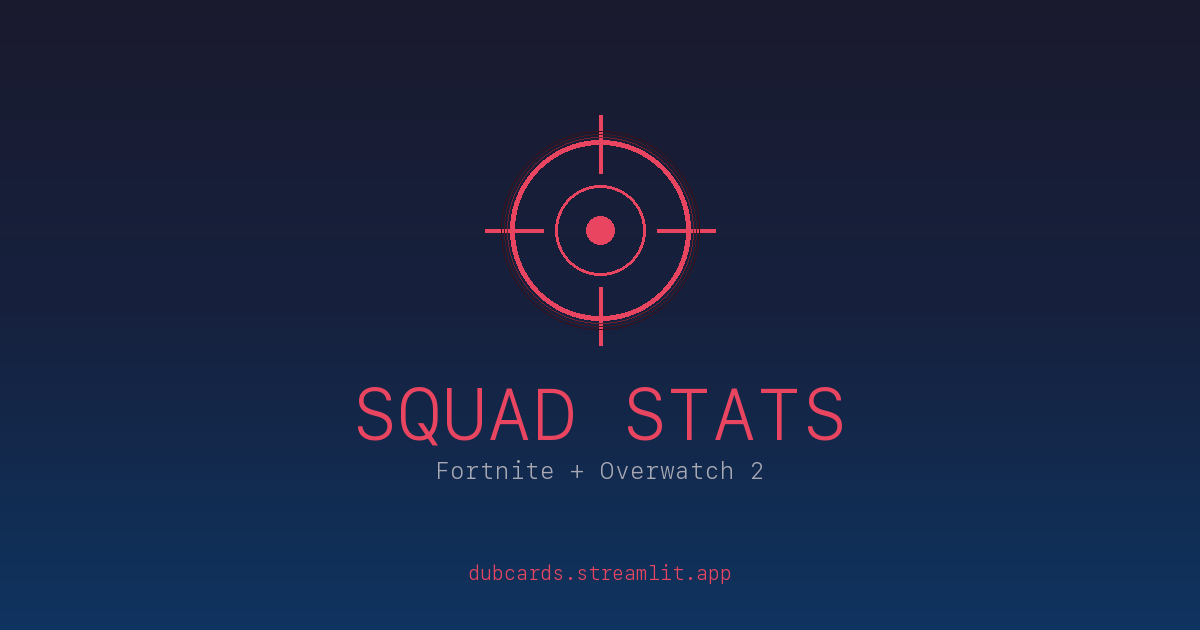
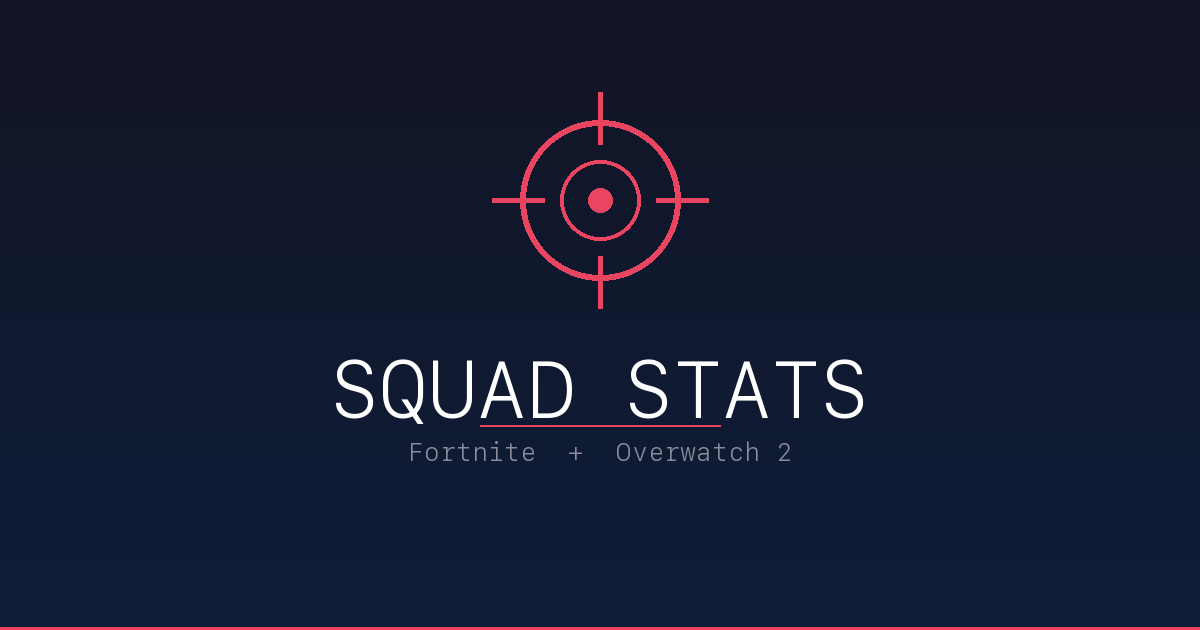
Update OG preview image and redirect URL to squadstats.streamlit.app

diff --git a/docs/index.html b/docs/index.html
@@ -21,7 +21,7 @@
     <meta name="twitter:image" content="https://raw.githubusercontent.com/RParnell93/squad-tracker/main/preview.png">
 
     <!-- Redirect to Streamlit app -->
-    <meta http-equiv="refresh" content="0;url=https://dubcards.streamlit.app/">
+    <meta http-equiv="refresh" content="0;url=https://squadstats.streamlit.app/">
 
     <style>
         body {
@@ -38,6 +38,6 @@
     </style>
 </head>
 <body>
-    <p>Redirecting to <a href="https://dubcards.streamlit.app/">Squad Stats</a>...</p>
+    <p>Redirecting to <a href="https://squadstats.streamlit.app/">Squad Stats</a>...</p>
 </body>
 </html>
